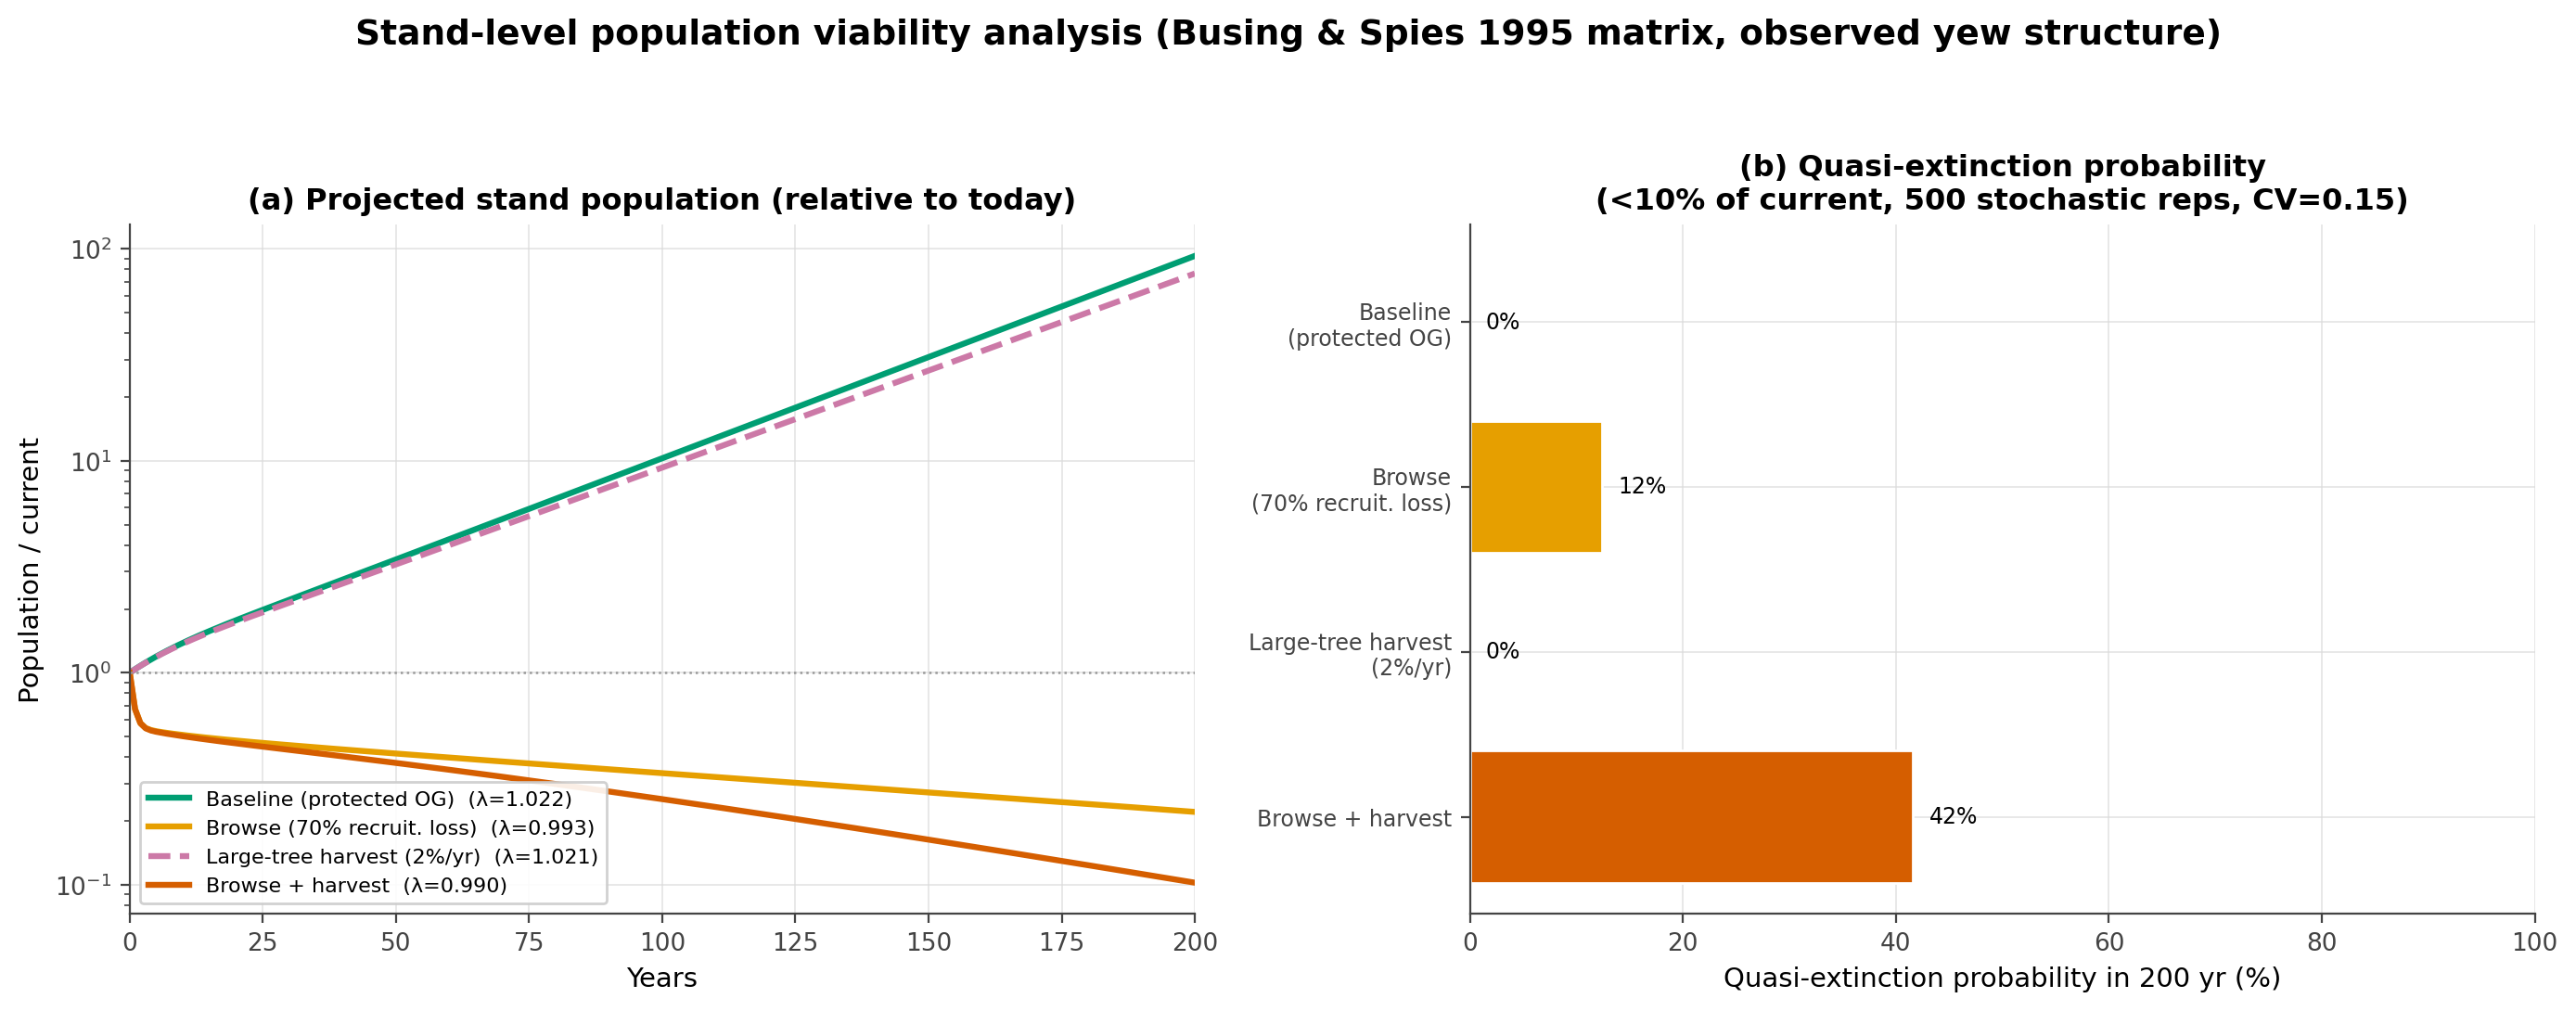
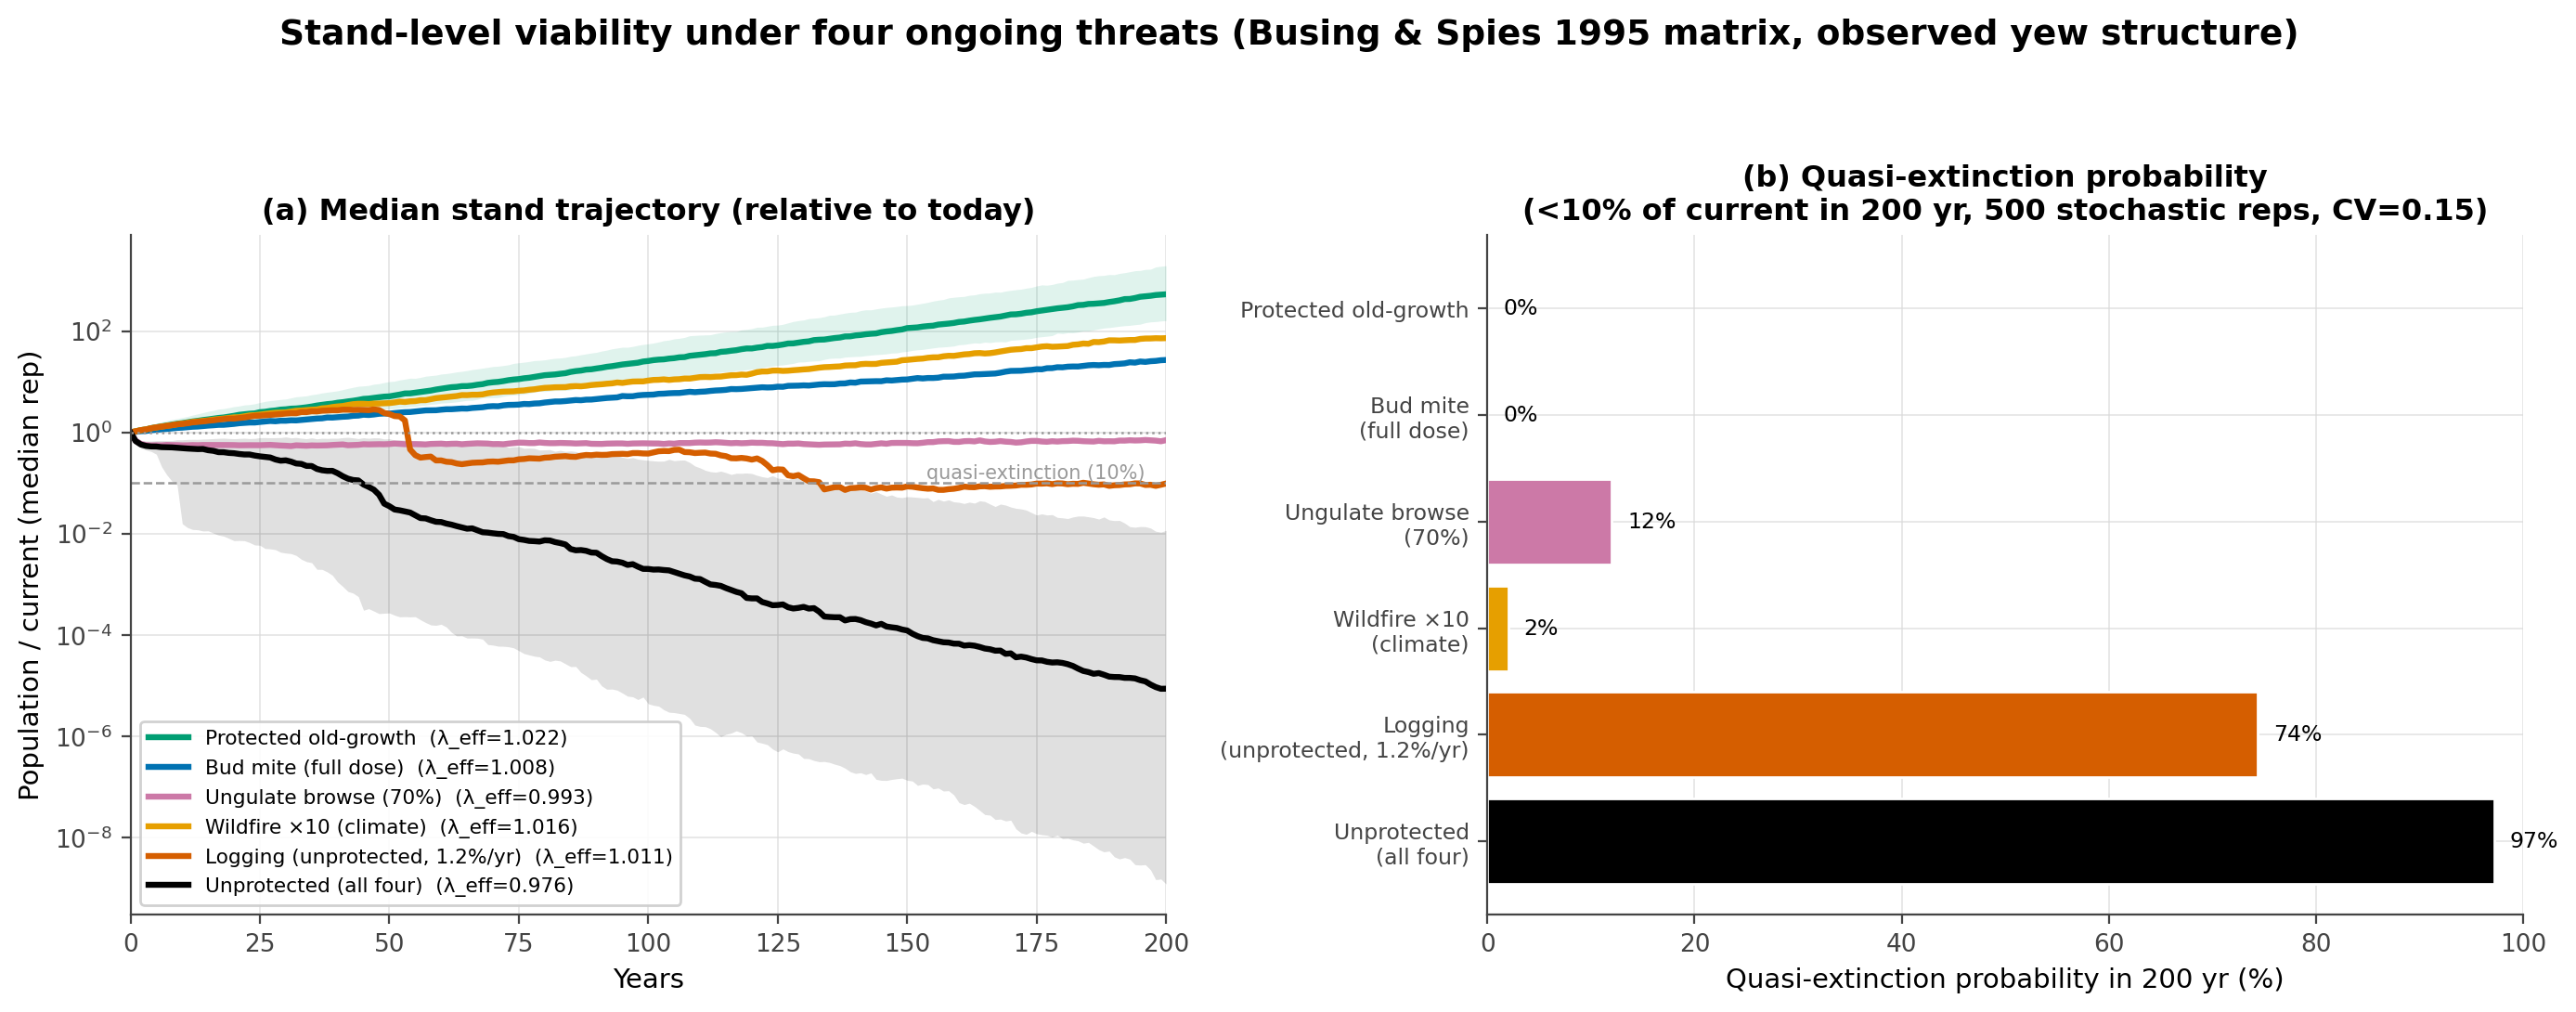
Rebuild stand PVA around four ongoing threats; drop bark-harvest scenario
Unify the stand-level viability analysis into a single 7-stage Busing & Spies
matrix with four independent, biologically-placed threat knobs, replacing the
inconsistent browse+large-tree-harvest framing:

  - logging: stand-clearing hazard (shade-obligate yew locally extirpated,
    ~2% leave-tree retention, no in-place recovery) at the 1.2%/yr rate
    implied by the mapped 69.2% decline over ~100 yr  -> QE 74% (dominant)
  - browse:  recruitment + seedling/sapling survival x(1-b)  -> lambda 0.99, QE 12%
  - fire:    stand hazard, p_burn0=0.000794/yr x phi, 25% refugia; even x10
    leaves lambda_eff>1 (QE 2%) -> fire alone insufficient
  - mite:    growth -20%, fecundity -25% dose-response -> mild (QE 0%)
  - all four combined -> QE 97%

Fixes two prior inconsistencies: (a) the two demographic models disagreed on
browse because fit_demographic_rates.py mislabeled the mite dose-response as
"browse"; (b) logging (the dominant driver) had no stand-level demographic
representation. Bark/large-tree harvest is dropped from forward scenarios as a
1990s legacy that is demographically the weakest lever in isolation
(lambda 1.022->1.021); it is retained in the text only as a seed-source deficit.

Update §3.3 viability paragraph + Fig S5 caption to the new scenarios; fix a
stale §3.4->§3.3 PVA cross-reference in the mite caveat. Rebuild figure + PDF.

diff --git a/scripts/analysis/yew_pva.py b/scripts/analysis/yew_pva.py
@@ -1,25 +1,51 @@
 #!/usr/bin/env python3
 """
-Stand-level population viability analysis (PVA) for Pacific yew, parameterised
-from this study's observed size structure and the Busing & Spies (1995)
-stage-projection matrix.
+Stand-level population viability analysis (PVA) for Pacific yew.
 
-This complements the landscape habitat-area projection (Fig 11b) with a
-within-stand demographic model: given the vital rates of old-growth yew, is a
-stand viable, and how do the documented ongoing stressors — ungulate browse
-suppressing recruitment (60–80% seedling/sapling mortality) and continued
-removal of large reproductive trees — drive the growth rate λ below 1 and raise
-quasi-extinction risk?
+A single 7-stage Busing & Spies (1995) stage-projection matrix with FOUR
+independent, biologically-placed threat knobs representing the *ongoing*
+(not historical bark-rush) pressures on BC yew:
+
+  browse (b, 0-1)   Ungulate browse. Deer/elk strip seedlings and saplings, so
+                    browse multiplies recruitment (fecundity) AND stage 1-2
+                    (seedling/sapling) survival by (1-b). 60-80% seedling/sapling
+                    mortality is documented above ~10 deer/km^2 (paper 2.6.4).
+
+  mite (m, 0-1)     Yew big-bud mite (Cecidophyopsis psilaspis). Suppresses shoot
+                    extension and aril set, so growth-class advancement is scaled
+                    by (1-0.20 m) and fecundity by (1-0.25 m). These dose-response
+                    multipliers are illustrative sensitivity bounds, not fitted.
+
+  fire (phi>=1)     Wildfire stand hazard. Annual burn probability = P_BURN0*phi;
+                    a burn year kills 75% of the stand and leaves 25% in unburned
+                    refugia (paper 2.5.2). P_BURN0 = 0.000794/yr from BC fire
+                    history (1900-2024; fit_demographic_rates.py).
+
+  log (p_log)       Industrial logging stand-clearing hazard. Annual probability
+                    p_log of near-total removal: yew is shade-obligate, so a
+                    clearcut locally extirpates it (~2% leave-tree retention, no
+                    in-place recovery until canopy returns). The mapped 69.2%
+                    decline over ~100 yr implies a historical average
+                    p_log ~= 0.0117/yr; p_log ~= 0 inside protected areas.
+
+Large-tree (bark) harvest is deliberately NOT a forward scenario: it is a 1990s
+taxol-rush legacy (large trees are no longer harvested) and is the weakest lever
+in isolation (lambda 1.022 -> 1.021, quasi-extinction 0%). The large-tree deficit
+is treated elsewhere as a record of past harvest and a seed-source brake on
+recovery, not an ongoing viability threat.
+
+Catastrophic factors (fire, logging) are read primarily from the quasi-extinction
+panel and the *median* stochastic trajectory: their ensemble mean is dominated by
+the minority of stands that escape disturbance, so the median stand is the honest
+summary.
 
 Outputs:
-  - λ, stable stage distribution, reproductive values, stage elasticities
-  - deterministic projections of the observed (depleted) structure under
-    baseline / browse / harvest / combined scenarios
-  - stochastic quasi-extinction probabilities (à la Busing's PVA)
+  - lambda, stable stage distribution, reproductive values, stage elasticities
+  - per-factor effective growth rate and quasi-extinction probability
   - figure: results/figures/paper/fig_pva.png
 
 Run:
-    conda run -n yew_pytorch python scripts/analysis/yew_pva.py
+    /home/jericho/anaconda3/envs/yew_pytorch/bin/python scripts/analysis/yew_pva.py
 """
 import sys
 from pathlib import Path
@@ -47,9 +73,17 @@ A = np.array([
     [0.00, 0.00, 0.00, 0.00,  0.005, 0.99,  0.00 ],
     [0.00, 0.00, 0.00, 0.00,  0.00,  0.009, 0.993],
 ])
-FECUNDITY = (0, slice(3, 7))      # recruitment terms: row 0, donor stages 4–7
-SEEDLING  = [0, 1]                # stages 1–2 (browse-vulnerable seedlings/saplings)
-LARGE     = [5, 6]                # stages 6–7 (>15 cm, harvest-removable big trees)
+FECUNDITY  = (0, slice(3, 7))            # recruitment terms: row 0, donor stages 4–7
+SEEDLING   = [0, 1]                       # stages 1–2 (browse-vulnerable seedlings/saplings)
+GROWTH_IDX = [(i + 1, i) for i in range(6)]  # subdiagonal growth-advancement entries
+
+# ── Threat parameters (grounded; see module docstring) ────────────────────────
+P_BURN0   = 0.000794     # baseline annual stand-burn probability (BC fire history)
+FIRE_SURV = 0.25         # fraction surviving a burn year (25% refugia; 75% killed)
+P_LOG_HIST = 0.0117      # historical avg annual logging hazard (69.2% over ~100 yr)
+LOG_SURV  = 0.02         # leave-tree retention after clearcut (shade-obligate loss)
+BROWSE_HI = 0.70         # 60–80% seedling/sapling mortality at high deer density
+FIRE_PHI  = 10           # climate-elevated fire multiplier (2020s burn ~1.7× 2010s)
 
 
 def lam(M):
@@ -70,25 +104,66 @@ def demography(M):
     return l, w, v, e
 
 
-def scenario_matrix(browse=0.0, harvest=0.0):
-    """browse = fractional reduction of recruitment + seedling survival;
-    harvest = annual fractional removal of large trees (stages 6–7)."""
+def scenario_matrix(browse=0.0, mite=0.0):
+    """Chronic (within-stand) modifiers.
+
+    browse : ungulate browse — recruitment + seedling/sapling survival ×(1-browse)
+    mite   : big-bud mite — growth advancement ×(1-0.20 mite), fecundity ×(1-0.25 mite)
+    (Fire and logging are catastrophic hazards, applied outside the matrix.)
+    """
     M = A.copy()
-    M[FECUNDITY] *= (1 - browse)                              # fewer recruits
-    for s in SEEDLING:                                       # higher seedling mortality
+    # Bud mite: slow growth-class advancement.
+    for (r, c) in GROWTH_IDX:
+        M[r, c] *= (1 - 0.20 * mite)
+    # Fecundity reduced by browse (fewer recruits survive) and mite (less aril set).
+    M[0, 3:7] *= (1 - browse) * (1 - 0.25 * mite)
+    # Browse also raises seedling/sapling mortality (stage 1–2 columns).
+    for s in SEEDLING:
         M[:, s] *= (1 - browse)
-    for s in LARGE:                                          # ongoing large-tree loss
-        M[s, s] *= (1 - harvest)
     return M
 
 
-def project(M, n0, steps):
-    n = n0.astype(float).copy()
-    out = [n.sum()]
-    for _ in range(steps):
-        n = M @ n
-        out.append(n.sum())
-    return np.array(out)
+def cat_multiplier(p_fire=0.0, p_log=0.0):
+    """Expected annual survival multiplier from catastrophic hazards (ensemble mean)."""
+    return (1 - p_fire * (1 - FIRE_SURV)) * (1 - p_log * (1 - LOG_SURV))
+
+
+def lam_eff(browse=0.0, mite=0.0, p_fire=0.0, p_log=0.0):
+    """Effective growth rate combining chronic matrix modifiers and catastrophe hazards."""
+    return lam(scenario_matrix(browse, mite)) * cat_multiplier(p_fire, p_log)
+
+
+def stochastic(M, n0, years, p_fire=0.0, p_log=0.0,
+               n_rep=500, cv=0.15, qe_frac=0.10, seed=0):
+    """Stochastic projection: lognormal vital-rate noise + Bernoulli fire/logging.
+
+    Returns quasi-extinction probability (population ever < qe_frac of current)
+    and the 10th / 50th / 90th percentile relative-population trajectories.
+    """
+    rng = np.random.default_rng(seed)
+    thresh = n0.sum() * qe_frac
+    traj = np.zeros((n_rep, years + 1))
+    hits = 0
+    for r in range(n_rep):
+        n = n0.astype(float).copy()
+        traj[r, 0] = n.sum()
+        hit = False
+        for yr in range(1, years + 1):
+            Mt = np.clip(M * rng.lognormal(0, cv, M.shape), 0, None)
+            n = Mt @ n
+            if rng.random() < p_fire:
+                n = n * FIRE_SURV
+            if rng.random() < p_log:
+                n = n * LOG_SURV
+            traj[r, yr] = n.sum()
+            if n.sum() < thresh and not hit:
+                hit = True
+        hits += int(hit)
+    rel = traj / traj[:, [0]]
+    return (hits / n_rep,
+            np.percentile(rel, 10, axis=0),
+            np.median(rel, axis=0),
+            np.percentile(rel, 90, axis=0))
 
 
 def observed_state():
@@ -110,6 +185,26 @@ def observed_state():
     return n, int(counts.sum())
 
 
+# ── Four-factor scenario definitions ──────────────────────────────────────────
+SCENARIOS = {
+    "Protected old-growth":             dict(),
+    "Bud mite (full dose)":             dict(mite=1.0),
+    "Ungulate browse (70%)":            dict(browse=BROWSE_HI),
+    "Wildfire ×10 (climate)":           dict(p_fire=FIRE_PHI * P_BURN0),
+    "Logging (unprotected, 1.2%/yr)":   dict(p_log=P_LOG_HIST),
+    "Unprotected (all four)":           dict(browse=BROWSE_HI, mite=1.0,
+                                             p_fire=FIRE_PHI * P_BURN0, p_log=P_LOG_HIST),
+}
+COLS = {
+    "Protected old-growth":            ROLE["best"],
+    "Bud mite (full dose)":            PALETTE["blue"],
+    "Ungulate browse (70%)":           PALETTE["purple"],
+    "Wildfire ×10 (climate)":          ROLE["fire"],
+    "Logging (unprotected, 1.2%/yr)":  ROLE["worst"],
+    "Unprotected (all four)":          PALETTE["black"],
+}
+
+
 def main():
     l0, w, v, e = demography(A)
     print(f"Baseline λ = {l0:.4f}")
@@ -117,79 +212,61 @@ def main():
     print(f"Reproductive values: {np.round(v,2)}")
     print(f"Stage elasticities (Σ={e.sum():.2f}): {np.round(e.sum(axis=1),3)}  (per recipient stage)")
 
-    # Scenario growth rates
-    scen = {
-        "Baseline (protected OG)":      scenario_matrix(),
-        "Browse (70% recruit. loss)":   scenario_matrix(browse=0.70),
-        "Large-tree harvest (2%/yr)":   scenario_matrix(harvest=0.02),
-        "Browse + harvest":             scenario_matrix(browse=0.70, harvest=0.02),
-    }
-    print("\nScenario growth rates:")
-    for k, M in scen.items():
-        print(f"  λ = {lam(M):.4f}   {k}")
-
     n0, n_obs = observed_state()
-    print(f"\nObserved initial structure (n={n_obs} measured stems): "
-          f"{np.round(n0,1)}")
-    # The large trees (stages 6–7) carry the highest reproductive value, so their
-    # depletion erodes seed output even though their survival elasticity is low.
+    print(f"\nObserved initial structure (n={n_obs} measured stems): {np.round(n0,1)}")
+
+    YEARS = 200
+    t = np.arange(YEARS + 1)
+
+    # ── per-scenario deterministic λ_eff + stochastic QE / percentile bands ────
+    print(f"\n{'Scenario':<34} {'λ (chronic)':>11} {'λ_eff':>8} {'QE 200yr':>9}")
+    results, bands = {}, {}
+    for name, kw in SCENARIOS.items():
+        chronic = lam(scenario_matrix(kw.get("browse", 0.0), kw.get("mite", 0.0)))
+        leff    = lam_eff(**kw)
+        qe, lo, med, hi = stochastic(scenario_matrix(kw.get("browse", 0.0), kw.get("mite", 0.0)),
+                                     n0, YEARS,
+                                     p_fire=kw.get("p_fire", 0.0),
+                                     p_log=kw.get("p_log", 0.0))
+        results[name] = dict(chronic=chronic, leff=leff, qe=qe)
+        bands[name]   = (lo, med, hi)
+        print(f"{name:<34} {chronic:>11.4f} {leff:>8.4f} {qe*100:>8.0f}%")
+
+    print(f"\nParameters: P_BURN0={P_BURN0}/yr, fire×{FIRE_PHI}; "
+          f"p_log={P_LOG_HIST}/yr (69.2% over ~100 yr); "
+          f"browse={BROWSE_HI}; mite dose −20% growth / −25% fecundity.")
     print(f"Reproductive value of large trees (st6–7): {v[5]:.1f}, {v[6]:.1f} "
           f"(highest of all stages — dominant seed producers)")
 
-    # ── deterministic projections ────────────────────────────────────────────
-    YEARS = 200
-    t = np.arange(YEARS + 1)
-    traj = {k: project(M, n0, YEARS) for k, M in scen.items()}
-
-    # ── stochastic quasi-extinction (lognormal noise on vital rates) ──────────
-    rng = np.random.default_rng(0)
-    N_REP, QE_FRAC, CV = 500, 0.10, 0.15
-    qe = {}
-    for k, M in scen.items():
-        below = np.zeros(YEARS + 1)
-        thresh = n0.sum() * QE_FRAC
-        ext_time = []
-        for _ in range(N_REP):
-            n = n0.copy(); hit = None
-            for yr in range(1, YEARS + 1):
-                Mt = M * rng.lognormal(0, CV, M.shape)
-                Mt = np.clip(Mt, 0, None)
-                n = Mt @ n
-                if n.sum() < thresh and hit is None:
-                    hit = yr
-            if hit is not None:
-                ext_time.append(hit)
-        qe[k] = len(ext_time) / N_REP
-    print(f"\nQuasi-extinction probability (<{QE_FRAC:.0%} of current in {YEARS} yr, "
-          f"{N_REP} reps):")
-    for k in scen:
-        print(f"  {qe[k]*100:4.0f}%   {k}")
-
     # ── figure ────────────────────────────────────────────────────────────────
-    cols = {"Baseline (protected OG)": ROLE["best"],
-            "Browse (70% recruit. loss)": ROLE["status_quo"],
-            "Large-tree harvest (2%/yr)": PALETTE["purple"],
-            "Browse + harvest": ROLE["worst"]}
     fig, axes = plt.subplots(1, 2, figsize=(14, 5.4))
-    fig.suptitle("Stand-level population viability analysis (Busing & Spies 1995 matrix, "
-                 "observed yew structure)", y=1.00)
+    fig.suptitle("Stand-level viability under four ongoing threats "
+                 "(Busing & Spies 1995 matrix, observed yew structure)", y=1.00)
 
     ax = axes[0]
-    ax.set_title("(a) Projected stand population (relative to today)")
-    for k, y in traj.items():
-        ax.plot(t, y / y[0], color=cols[k], lw=2.3,
-                ls="--" if "harvest" in k and "Browse" not in k else "-",
-                label=f"{k}  (λ={lam(scen[k]):.3f})")
+    ax.set_title("(a) Median stand trajectory (relative to today)")
+    for name in SCENARIOS:
+        lo, med, hi = bands[name]
+        ax.plot(t, med, color=COLS[name], lw=2.3,
+                label=f"{name}  (λ_eff={results[name]['leff']:.3f})")
+    # spread band only on the two anchor scenarios to avoid clutter
+    for name in ("Protected old-growth", "Unprotected (all four)"):
+        lo, med, hi = bands[name]
+        ax.fill_between(t, lo, hi, color=COLS[name], alpha=0.12, lw=0)
     ax.axhline(1, color=PALETTE["grey"], lw=0.9, ls=":")
-    ax.set_xlabel("Years"); ax.set_ylabel("Population / current")
+    ax.axhline(0.10, color=PALETTE["grey"], lw=0.9, ls="--")
+    ax.text(YEARS * 0.98, 0.105, "quasi-extinction (10%)", ha="right", va="bottom",
+            fontsize=7.5, color=PALETTE["grey"])
+    ax.set_xlabel("Years"); ax.set_ylabel("Population / current (median rep)")
     ax.set_yscale("log"); ax.set_xlim(0, YEARS)
-    ax.legend(fontsize=8, loc="lower left")
+    ax.legend(fontsize=7.8, loc="lower left")
 
     ax = axes[1]
-    ax.set_title(f"(b) Quasi-extinction probability\n(<{QE_FRAC:.0%} of current, "
-                 f"{N_REP} stochastic reps, CV={CV})")
-    names = list(scen); probs = [qe[k] * 100 for k in names]
-    ax.barh(range(len(names)), probs, color=[cols[k] for k in names],
+    ax.set_title("(b) Quasi-extinction probability\n(<10% of current in 200 yr, "
+                 "500 stochastic reps, CV=0.15)")
+    names = list(SCENARIOS)
+    probs = [results[k]["qe"] * 100 for k in names]
+    ax.barh(range(len(names)), probs, color=[COLS[k] for k in names],
             edgecolor="white")
     ax.set_yticks(range(len(names)))
     ax.set_yticklabels([n.replace(" (", "\n(") for n in names], fontsize=8.5)
@@ -199,7 +276,7 @@ def main():
     for i, p in enumerate(probs):
         ax.text(p + 1.5, i, f"{p:.0f}%", va="center", fontsize=8.5)
 
-    plt.tight_layout(rect=[0, 0, 1, 0.96])
+    plt.tight_layout(rect=[0, 0, 1, 0.95])
     for ext in ("png", "pdf"):
         plt.savefig(OUT / f"fig_pva.{ext}")
     print(f"\nSaved: {OUT/'fig_pva.png'}")

diff --git a/docs/PAPER_FINAL_DRAFT.md b/docs/PAPER_FINAL_DRAFT.md
@@ -195,7 +195,7 @@ Pacific yew being sensitive to salt; saline groundwater intrusion kills root sys
 
 #### 2.6.3 Yew Big Bud Mite 
 
-The Yew Big Bud Mite (*Cecidophyopsis psilaspis*) causes bud galls on *Taxus* species, with terminal bud mortality averaging over 20% in infested coastal BC populations, reducing growth rates by ~20% and seed (aril) production by ~25% (TODO find citation). No *T. brevifolia*-specific dose-response curve was found in the academic literature or provincial forest health reports; the 20%/25% multipliers used in the population viability analysis (§3.4) are therefore illustrative sensitivity bounds rather than empirically fitted values and should be interpreted accordingly.
+The Yew Big Bud Mite (*Cecidophyopsis psilaspis*) causes bud galls on *Taxus* species, with terminal bud mortality averaging over 20% in infested coastal BC populations, reducing growth rates by ~20% and seed (aril) production by ~25% (TODO find citation). No *T. brevifolia*-specific dose-response curve was found in the academic literature or provincial forest health reports; the 20%/25% multipliers used in the population viability analysis (§3.3) are therefore illustrative sensitivity bounds rather than empirically fitted values and should be interpreted accordingly.
 
 #### 2.6.4 Ungulate Browsing
 
@@ -310,7 +310,7 @@ FAIB PSP comparison. The field-sample finding is independently corroborated by t
 
 The two datasets differ in their small-diameter composition: the FAIB sample is heavily weighted toward the 0–10 cm class (median DBH 5.5 cm), while the field sample peaks in the 10–20 cm class (median 12.7 cm), suggesting proportionally fewer seedlings and saplings in the field sample sites. Two mechanisms could explain this discrepancy. First, wild ungulates (black-tailed deer, Roosevelt elk, and moose) preferentially browse Pacific yew foliage and suppress seedling and sapling recruitment in areas of high ungulate density; if the field sample sites experience greater ungulate pressure than the average FAIB plot, small stems would be systematically removed from the field-site understorey (Busing et al. 1995; Council of the Haida Nation 2016). Second, the eriophyid mite *Cecidophyopsis psilaspis* suppresses new bud growth in coastal yew populations (Reynolds 2022); repeated mite damage can prevent small individuals from growing into the 10–20 cm class, effectively suppressing the 0–10 cm cohort over time. The FAIB plots, drawn from operational forest inventory, are more broadly distributed across the province and may include sites where these regeneration stressors are less prevalent. Regardless of mechanism, the modal shift does not alter the core finding: both datasets show the same large-tree depletion relative to stable-population expectations.
 
-To translate the observed size structure into a viability statement, we seeded the Busing & Spies (1995) stage-projection matrix with the observed (FAIB + field) stage structure and projected it forward under contrasting scenarios, including a stochastic quasi-extinction analysis (Figure S5; `scripts/analysis/yew_pva.py`). Vital rates in the Busing matrix are calibrated to reproduce λ = 1.02 and q = 1.5 for undisturbed old-growth. We independently verified stage-specific annual survival using the 194 multi-visit FAIB TW trees (292 transitions, mean interval 13.1 yr); the FAIB-fitted mean annual survival (0.994/yr) is slightly lower than the Busing-calibrated value (0.998/yr) and does not alter the qualitative conclusions. FAIB-fitted growth-class advancement rates are slower than the Busing model, likely reflecting that the FAIB sample spans degraded as well as prime old-growth stands; Busing-calibrated growth rates are retained for projections (full comparison in `results/analysis/faib_vital_rates.json`). The baseline annual burn probability used in fire scenarios was updated from a placeholder (0.002/yr) to the BC fire-history estimate of 0.000794/yr (96,543 ha burned across the 980,000 ha study area over 1900–2024); this lower rate reinforces, rather than changes, the conclusion that historical fire rates alone are insufficient to drive population-level decline without concurrent logging. In intact, protected old-growth the modelled stand is viable (λ = 1.02, quasi-extinction probability ≈ 0 over 200 yr), consistent with Busing & Spies' conclusion that undisturbed stands are stable to slowly growing. Critically, the matrix elasticities are highest for recruitment and growth through the small and mid-size classes (stages 4–5: 0.30, 0.28) and lowest for large-tree survival (stages 6–7: 0.06, 0.02), identifying recruitment, not adult survival, as the demographic lever for stand-level viability. The two best-documented stressors act on exactly this lever. Ungulate browse — which removes 60–80% of seedlings and saplings in high-density areas (§2.6.4) — drops the modelled growth rate below replacement on its own (λ = 0.99, quasi-extinction probability 12%); combined with continued attrition of the large, bark-rich seed-producers (whose reproductive value, 8.5 and 8.2, is the highest of any stage), it drives quasi-extinction probability to 42% over 200 yr. By contrast, large-tree removal *alone* barely changes λ (1.02), because yew's demography is bottom-weighted — but those large trees are the dominant seed source (fecundity scales with stem diameter; Busing & Spies 1995), so their depletion erodes the very recruitment the population depends on. The large-tree deficit in the size structure is therefore both a record of past harvest and a brake on future recovery. This stand-scale viability result complements the landscape projection (Figure 11): logging removes the old-growth canopy that yew recruitment requires, while browse suppresses recruitment where canopy persists — both converging on the same recruitment bottleneck, and both pointing to maintenance of old-growth shade and ungulate management as the decisive conservation levers (§4.3).
+To translate the observed size structure into a viability statement, we seeded the Busing & Spies (1995) stage-projection matrix with the observed (FAIB + field) stage structure and projected it forward under the four ongoing threats to BC yew — industrial logging, wildfire, ungulate browse, and big-bud mite — each represented as an independent, biologically-placed perturbation, including a stochastic quasi-extinction analysis (Figure S5; `scripts/analysis/yew_pva.py`). Logging and wildfire enter as catastrophic stand-level hazards (a burn kills 75% of the stand and leaves 25% in refugia; a clearcut locally extirpates shade-obligate yew with ~2% leave-tree retention and no in-place recovery), whereas browse acts on recruitment and seedling/sapling survival and the mite on growth advancement and aril set. Vital rates in the Busing matrix are calibrated to reproduce λ = 1.02 and q = 1.5 for undisturbed old-growth. We independently verified stage-specific annual survival using the 194 multi-visit FAIB TW trees (292 transitions, mean interval 13.1 yr); the FAIB-fitted mean annual survival (0.994/yr) is slightly lower than the Busing-calibrated value (0.998/yr) and does not alter the qualitative conclusions. FAIB-fitted growth-class advancement rates are slower than the Busing model, likely reflecting that the FAIB sample spans degraded as well as prime old-growth stands; Busing-calibrated growth rates are retained for projections (full comparison in `results/analysis/faib_vital_rates.json`). The baseline annual burn probability was updated from a placeholder (0.002/yr) to the BC fire-history estimate of 0.000794/yr (96,543 ha burned across the 980,000 ha study area over 1900–2024). In intact, protected old-growth the modelled stand is viable (λ = 1.02, quasi-extinction probability ≈ 0 over 200 yr), consistent with Busing & Spies' conclusion that undisturbed stands are stable to slowly growing. Critically, the matrix elasticities are highest for recruitment and growth through the small and mid-size classes (stages 4–5: 0.30, 0.28) and lowest for large-tree survival (stages 6–7: 0.06, 0.02), identifying recruitment, not adult survival, as the demographic lever for stand-level viability. The four threats act on this lever very unevenly. *Logging* is by far the dominant factor: modelled as a stand-clearing hazard at the 1.2%/yr rate implied by the mapped 69.2% decline over ~100 yr, it drives quasi-extinction probability to 74% over 200 yr — a median stand is cleared by ~year 59 and ~90% of unprotected stands are cleared within the window — even though the surviving stems retain viable old-growth vital rates. *Ungulate browse* is the strongest chronic stressor: removing 60–80% of seedlings and saplings in high-density areas (§2.6.4), it drops the modelled growth rate below replacement on its own (λ = 0.99, quasi-extinction probability 12%). *Wildfire*, even at ten times the fitted historical rate, leaves the modelled stand growing (λ_eff = 1.02, quasi-extinction probability 2%), confirming that fire alone is demographically insufficient without logging to remove the old-growth refugia — a threshold analysis (`scripts/analysis/fit_demographic_rates.py`) finds that fire would have to run at ~28× the historical average to force an EN-level (50%) decline unaided. *Big-bud mite* (*Cecidophyopsis psilaspis*) is the mildest factor: suppressing growth advancement (−20%) and aril set (−25%), it slows but does not reverse growth (λ = 1.01, quasi-extinction probability ≈ 0). Acting together in an unprotected stand, the four compound to near-certain loss (λ_eff = 0.98, quasi-extinction probability 97%). Large-tree (bark) removal is deliberately excluded from these forward scenarios: large trees are no longer harvested, and in isolation their removal barely changes λ (1.02) because yew's demography is bottom-weighted. But because fecundity scales with stem diameter (Busing & Spies 1995), those large trees are the dominant seed source (reproductive values 8.5 and 8.2, the highest of any stage), so the 1990s-era large-tree deficit persists as both a record of past harvest and a brake on the recruitment-driven recovery the population depends on. This stand-scale result complements the landscape projection (Figure 11): logging removes the old-growth canopy that yew recruitment requires, while browse suppresses recruitment where canopy persists — both converging on the same recruitment bottleneck, and both pointing to maintenance of old-growth shade and ungulate management as the decisive conservation levers (§4.3).
 
 ---
 
@@ -472,4 +472,4 @@ Figure S3. Where the mapped yew habitat sits by protection status: provincial pa
 
 Figure S4. As Figure 6, for the Central and North Coast — the region holding the largest remaining yew habitat. Substantial predicted habitat persists in less-accessible outer-coast and fjord tiles (e.g. Rivers Inlet, Smith Sound), consistent with lower historical logging pressure.
 
-Figure S5. Stand-level population viability analysis from the Busing & Spies (1995) stage-projection matrix seeded with the observed yew size structure (FAIB + field). (a) Projected stand population relative to today (log scale) under four scenarios: protected old-growth (λ = 1.02), ungulate browse removing 70% of recruitment (λ = 0.99), continued large-tree harvest at 2%/yr (λ = 1.02), and browse + harvest combined (λ = 0.99). (b) Quasi-extinction probability (population falling below 10% of current within 200 yr; 500 stochastic replicates, vital-rate CV = 0.15): negligible under protection, 12% under browse alone, and 42% under browse + harvest. Matrix elasticities are highest in the small/mid size classes, identifying recruitment — not adult survival — as the demographic lever.
+Figure S5. Stand-level population viability analysis from the Busing & Spies (1995) stage-projection matrix seeded with the observed yew size structure (FAIB + field), under the four ongoing threats to BC yew as independent perturbations. (a) Median stochastic stand trajectory relative to today (log scale; shaded 10–90th-percentile band shown for the protected and unprotected cases): protected old-growth (λ_eff = 1.02), big-bud mite (λ_eff = 1.01), ungulate browse removing 70% of recruitment and seedling/sapling survival (λ_eff = 0.99), wildfire at 10× the fitted historical burn rate (λ_eff = 1.02), industrial logging as a 1.2%/yr stand-clearing hazard (λ_eff = 1.01 between disturbances; median stand cleared ~year 59), and all four combined (λ_eff = 0.98). (b) Quasi-extinction probability (population falling below 10% of current within 200 yr; 500 stochastic replicates, vital-rate CV = 0.15): 0% protected, 0% mite, 2% wildfire ×10, 12% browse, 74% logging, and 97% all four. Logging is by far the dominant threat and fire alone is demographically insufficient; matrix elasticities are highest in the small/mid size classes, identifying recruitment — not adult survival — as the demographic lever.